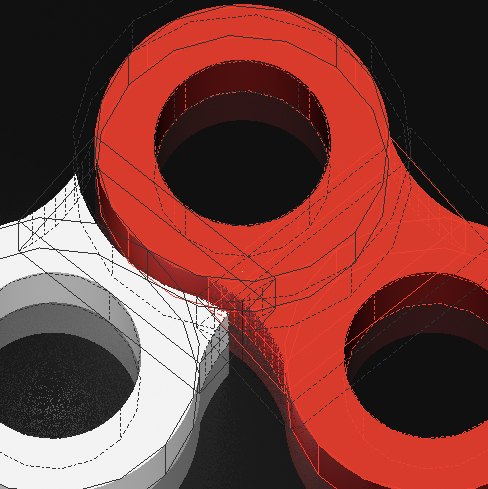
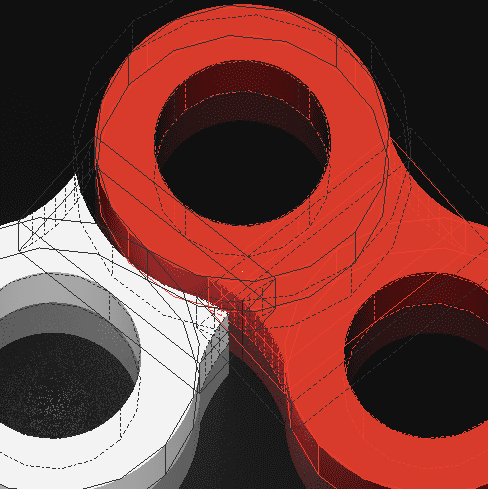
chore: compress images for better performance

diff --git a/src/assets/images/index.ts b/src/assets/images/index.ts
@@ -1,8 +1,8 @@
 export { default as about1 } from './about-1.png';
-export { default as about3 } from './about-3.png';
-export { default as about4 } from './about-4.png';
+export { default as about3 } from './about-3.webp';
+export { default as about4 } from './about-4.webp';
 export { default as brlLogo } from './brl-logo.png';
-export { default as crossPlatfom } from './cross-platfom.jpg';
-export { default as freeOpen } from './free-open.png';
-export { default as since1979 } from './since-1979.jpg';
+export { default as crossPlatfom } from './cross-platfom.webp';
+export { default as freeOpen } from './free-open.webp';
+export { default as since1979 } from './since-1979.webp';
 export { default as trustedMilitary } from './trusted-military.jpg';
